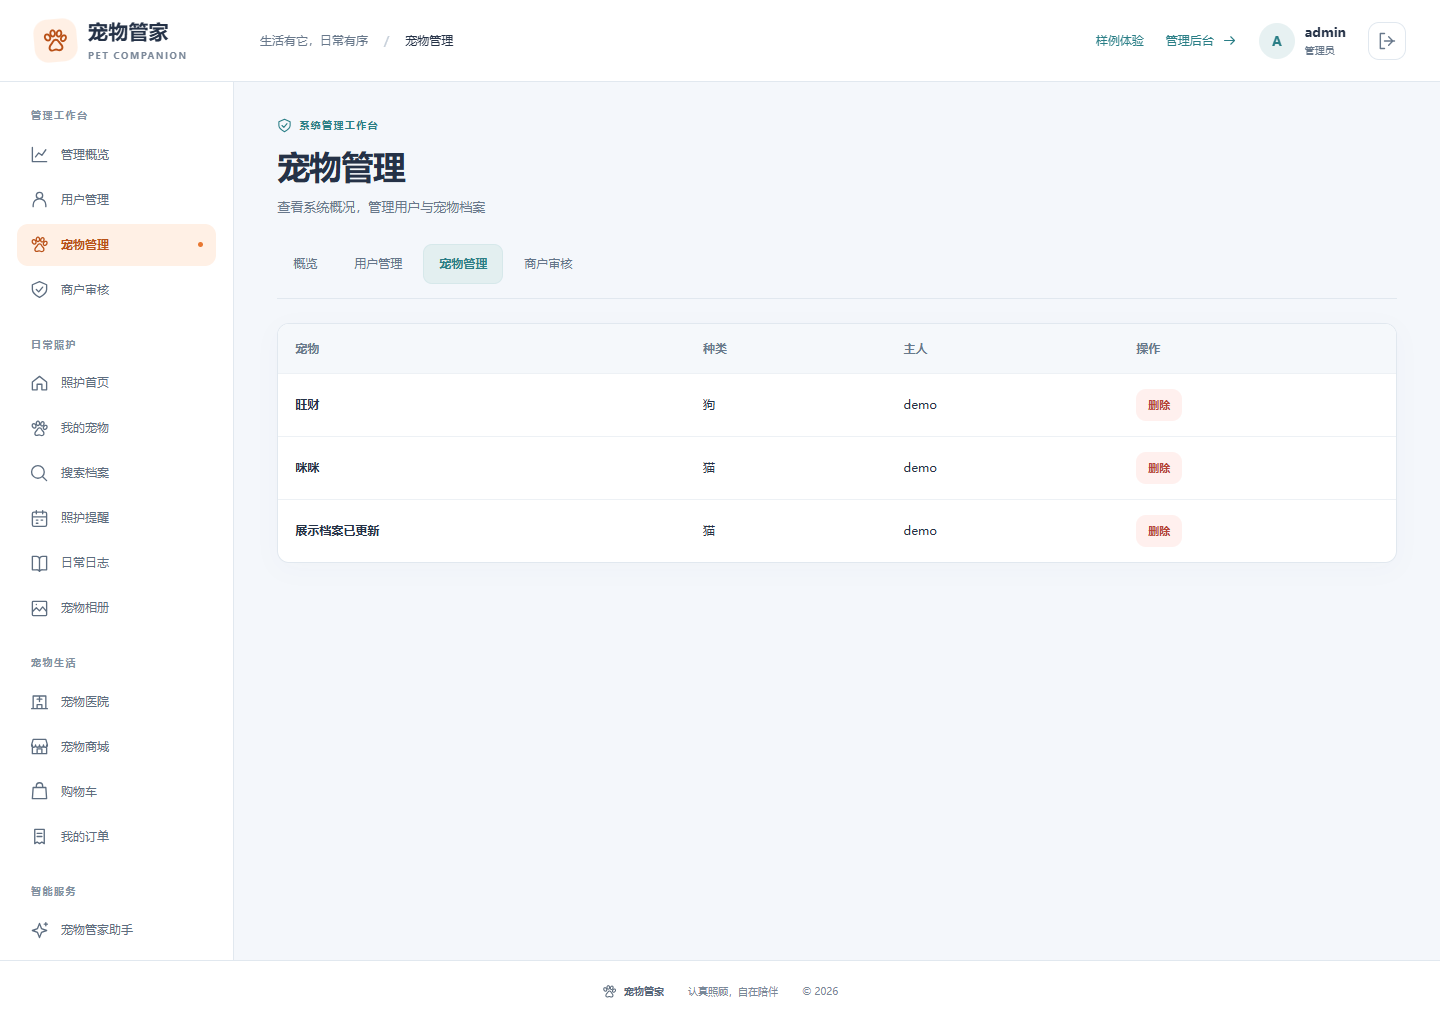
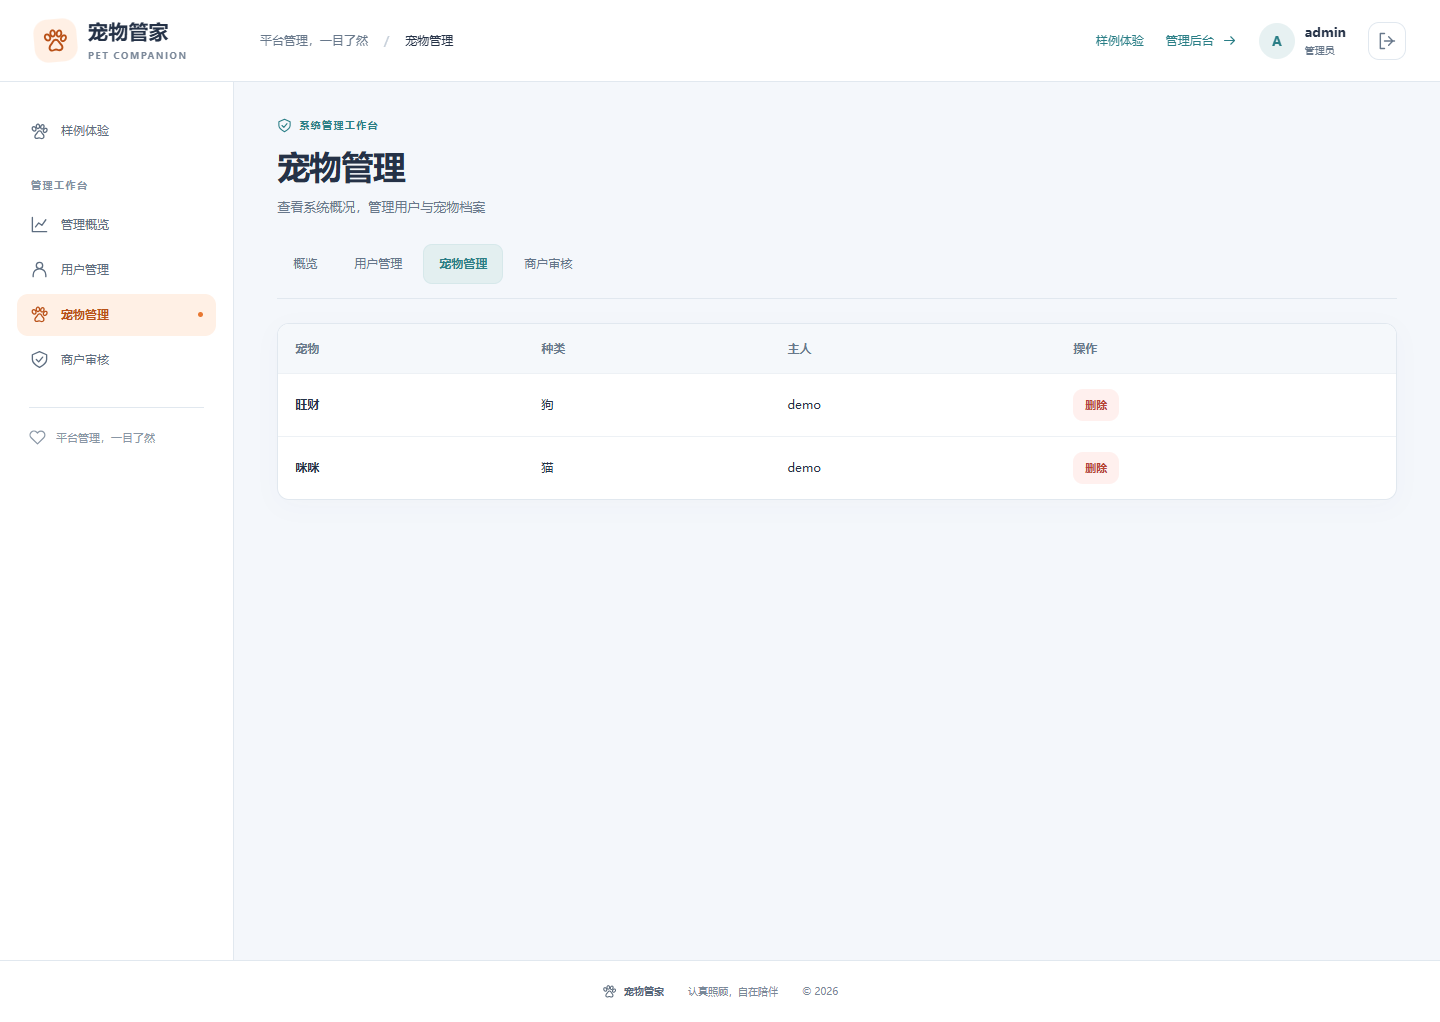
feat: separate owner merchant and admin workspaces

diff --git a/frontend/src/App.vue b/frontend/src/App.vue
@@ -4,12 +4,13 @@ import { useRouter, useRoute } from 'vue-router'
 import { api, errorMessage, imageUrl } from './api'
 import AppIcon from './components/AppIcon.vue'
 import AppPhoto from './components/AppPhoto.vue'
+import { currentUser as user, refreshUser } from './session'
+import { roleHome } from './roleAccess'
 const router = useRouter(), route = useRoute()
-const user = ref(null), menuOpen = ref(false), logoutError = ref('')
+const menuOpen = ref(false), logoutError = ref('')
 const demoEnabled = ref(false)
 onMounted(async () => { try { demoEnabled.value = (await api.get('/demo/status')).data.enabled === true } catch { demoEnabled.value = false } })
 const authPage = computed(() => ['/login', '/register'].includes(route.path))
-async function refreshUser() { try { user.value = (await api.get('/auth/profile')).data.user } catch { user.value = null } }
 async function logout() { try { await api.post('/auth/logout'); user.value = null; router.push('/login') } catch (error) { logoutError.value = errorMessage(error) } }
 provide('session', { user, refreshUser })
 function escapeMenu(event) { if (event.key === 'Escape') menuOpen.value = false }
@@ -21,6 +22,8 @@ const groups = [
   { title: '宠物生活', links: [['/community/hospitals','hospital','宠物医院'],['/shop/products','shop','宠物商城'],['/shop/cart','bag','购物车'],['/shop/orders','orders','我的订单']] },
   { title: '智能服务', links: [['/ai/assistant','sparkles','宠物管家助手'],['/ai/breed','scan','品种识别'],['/ai/emotion','smile','情绪分析'],['/ai/health','heart','健康报告'],['/ai/recommend','bag','商品推荐'],['/ai/consultation','chat','症状咨询']] }
 ]
+const visibleGroups = computed(() => user.value?.role === 'user' ? groups : [])
+const workspaceMessage = computed(() => ({user:'生活有它，日常有序',merchant:'店铺经营，清晰有序',admin:'平台管理，一目了然'}[user.value?.role] || '选择角色，开始体验'))
 const roleLinks = computed(() => user.value?.role === 'admin' ? [['/admin/dashboard','chart','管理概览'],['/admin/users','user','用户管理'],['/admin/pets','paw','宠物管理'],['/admin/merchants','shield','商户审核']] : user.value?.role === 'merchant' ? [['/merchant/products','shop','商品管理'],['/merchant/orders','orders','商户订单'],['/merchant/billing','book','租金账单']] : [])
 const currentTitle = computed(() => [...groups.flatMap(group => group.links), ...roleLinks.value, ['/profile','user','个人资料'], ['/demo','paw','样例体验']].find(link => link[0] === route.path)?.[2] || '宠物档案')
 const roleLabel = computed(() => ({ admin: '管理员', merchant: '商户', user: '宠物主人' }[user.value?.role] || '欢迎来访'))
@@ -29,8 +32,8 @@ const roleLabel = computed(() => ({ admin: '管理员', merchant: '商户', user
   <div class="site-shell" :class="{ 'auth-shell': authPage }">
     <a class="skip-link" href="#main-content">跳转到主要内容</a>
     <header class="topbar">
-      <RouterLink class="brand" to="/dashboard"><span class="brand-mark"><AppIcon name="paw" :size="27"/></span><span>宠物管家<small>PET COMPANION</small></span></RouterLink>
-      <div v-if="!authPage" class="top-context"><span>生活有它，日常有序</span><i>/</i><strong>{{ currentTitle }}</strong></div>
+      <RouterLink class="brand" :to="roleHome(user?.role)"><span class="brand-mark"><AppIcon name="paw" :size="27"/></span><span>宠物管家<small>PET COMPANION</small></span></RouterLink>
+      <div v-if="!authPage" class="top-context"><span>{{ workspaceMessage }}</span><i>/</i><strong>{{ currentTitle }}</strong></div>
       <nav class="top-actions" aria-label="账号导航">
         <RouterLink v-if="demoEnabled" class="role-link" to="/demo">样例体验</RouterLink>
         <RouterLink v-if="user?.role === 'merchant'" class="role-link" to="/merchant/products">商户中心 <AppIcon name="arrow" :size="15"/></RouterLink>
@@ -46,8 +49,8 @@ const roleLabel = computed(() => ({ admin: '管理员', merchant: '商户', user
       <aside v-if="!authPage" id="site-navigation" class="sidebar" :class="{ open: menuOpen }"><nav aria-label="主要导航">
         <div v-if="demoEnabled" class="nav-group"><RouterLink to="/demo"><AppIcon name="paw" :size="19"/><span>样例体验</span></RouterLink></div>
         <div v-if="roleLinks.length" class="nav-group"><div class="sidebar-caption">{{ user?.role === 'admin' ? '管理工作台' : '店铺工作台' }}</div><RouterLink v-for="[to, icon, label] in roleLinks" :key="to" :to="to"><AppIcon :name="icon" :size="19"/><span>{{ label }}</span><span class="active-dot"></span></RouterLink></div>
-        <div v-for="group in groups" :key="group.title" class="nav-group"><div class="sidebar-caption">{{ group.title }}</div><RouterLink v-for="[to, icon, label] in group.links" :key="to" :to="to"><AppIcon :name="icon" :size="19"/><span>{{ label }}</span><span class="active-dot"></span></RouterLink></div>
-      </nav><div class="sidebar-note"><AppIcon name="heart" :size="17"/><span>把每一份陪伴<br>记在日常里</span></div></aside>
+        <div v-for="group in visibleGroups" :key="group.title" class="nav-group"><div class="sidebar-caption">{{ group.title }}</div><RouterLink v-for="[to, icon, label] in group.links" :key="to" :to="to"><AppIcon :name="icon" :size="19"/><span>{{ label }}</span><span class="active-dot"></span></RouterLink></div>
+      </nav><div class="sidebar-note"><AppIcon name="heart" :size="17"/><span>{{ workspaceMessage }}</span></div></aside>
       <main id="main-content" class="main-content" tabindex="-1"><div v-if="logoutError" class="message error" role="alert">{{ logoutError }}</div><RouterView :key="$route.fullPath"/></main>
     </div>
     <footer><span class="footer-brand"><AppIcon name="paw" :size="15"/> 宠物管家</span><span>认真照顾，自在陪伴</span><span>© {{ new Date().getFullYear() }}</span></footer>

diff --git a/frontend/src/views/DemoView.vue b/frontend/src/views/DemoView.vue
@@ -1,5 +1,5 @@
 <script setup>
-import { inject, onMounted, ref } from 'vue'
+import { computed, inject, onMounted, ref } from 'vue'
 import { useRouter } from 'vue-router'
 import { api, unwrap, errorMessage } from '../api'
 import AppPhoto from '../components/AppPhoto.vue'
@@ -22,6 +22,7 @@ const scenes = [
   ['账单查询', 'merchant', '/merchant/billing', '查看一笔虚构月租金账单，不会发生实际扣款。'],
   ['平台管理', 'admin', '/admin/users', '查看演示账号并体验新增用户；商户审核可配合注册页新建申请。']
 ]
+const visibleScenes = computed(() => scenes.filter(scene => scene[1] === session.user.value?.role))
 onMounted(async () => { try { demo.value = (await api.get('/demo/status')).data } catch (e) { failure.value = errorMessage(e) } })
 async function enter(role, path) {
   if (busy.value || !demo.value?.enabled) return
@@ -45,8 +46,8 @@ async function enter(role, path) {
     <template v-if="demo?.enabled">
       <div class="demo-notice">本地演示环境 · 账号、商品、地址与订单均为样例。修改立即生效，重启 demo 后恢复初始数据。切换体验将切换当前登录账号。</div>
       <section class="demo-roles" aria-label="选择体验角色"><article v-for="role in roles" :key="role.role" class="demo-role"><AppPhoto :src="`/images/${role.image}.jpg`" :alt="role.label + '体验配图'" class="demo-photo"/><div><span class="eyebrow">{{ role.label }}</span><h2>{{ role.intro }}</h2><p>{{ role.steps }}</p><button class="btn" :disabled="busy" @click="enter(role.role, role.route)">{{ busy ? '正在进入…' : '体验' + role.label }}</button></div></article></section>
-      <section aria-labelledby="scenes-title"><h2 id="scenes-title">按场景试一试</h2><div class="demo-scenes"><article v-for="[title, role, path, note] in scenes" :key="title" class="card"><span class="tag">{{ roles.find(r => r.role === role).label }}</span><h3>{{ title }}</h3><p>{{ note }}</p><button class="btn secondary" :disabled="busy" @click="enter(role, path)">打开样例</button></article></div></section>
-      <section aria-labelledby="ai-samples-title" style="margin-top:32px"><h2 id="ai-samples-title">AI 样例体验</h2><p class="muted">进入后点击“填入样例”，可编辑输入，再提交查看实际结果。</p><div class="demo-scenes"><article v-for="(sample,key) in aiSamples" :key="key" class="card"><span class="tag">智能服务</span><h3>{{ sample.title }}</h3><p>{{ sample.description }}</p><button class="btn secondary" :disabled="busy" @click="enter('user', '/ai/' + key)">体验{{ {assistant:'资料问答',breed:'品种识别',emotion:'情绪分析',health:'健康报告',recommend:'商品推荐',consultation:'症状咨询'}[key] }}</button></article></div></section>
+      <section v-if="visibleScenes.length" aria-labelledby="scenes-title"><h2 id="scenes-title">按场景试一试</h2><div class="demo-scenes"><article v-for="[title, role, path, note] in visibleScenes" :key="title" class="card"><span class="tag">{{ roles.find(r => r.role === role).label }}</span><h3>{{ title }}</h3><p>{{ note }}</p><button class="btn secondary" :disabled="busy" @click="enter(role, path)">打开样例</button></article></div></section>
+      <section v-if="session.user.value?.role === 'user'" aria-labelledby="ai-samples-title" style="margin-top:32px"><h2 id="ai-samples-title">AI 样例体验</h2><p class="muted">进入后点击“填入样例”，可编辑输入，再提交查看实际结果。</p><div class="demo-scenes"><article v-for="(sample,key) in aiSamples" :key="key" class="card"><span class="tag">智能服务</span><h3>{{ sample.title }}</h3><p>{{ sample.description }}</p><button class="btn secondary" :disabled="busy" @click="enter('user', '/ai/' + key)">体验{{ {assistant:'资料问答',breed:'品种识别',emotion:'情绪分析',health:'健康报告',recommend:'商品推荐',consultation:'症状咨询'}[key] }}</button></article></div></section>
     </template>
   </div>
 </template>

diff --git a/frontend/tests/role-access.test.js b/frontend/tests/role-access.test.js
@@ -1,0 +1,22 @@
+import test from 'node:test'
+import assert from 'node:assert/strict'
+import { roleHome, canVisit } from '../src/roleAccess.js'
+
+test('each role has its own workspace and cannot enter another role workspace', () => {
+  const homes = { user: '/dashboard', merchant: '/merchant/products', admin: '/admin/dashboard' }
+  for (const [role, home] of Object.entries(homes)) {
+    assert.equal(roleHome(role), home)
+    assert.equal(canVisit(role, home), true)
+    for (const other of Object.keys(homes).filter(value => value !== role)) assert.equal(canVisit(role, homes[other]), false)
+    assert.equal(canVisit(role, '/profile'), true)
+    assert.equal(canVisit(role, '/demo'), true)
+  }
+  for (const path of ['/pets/1/weights', '/shop/orders', '/ai/assistant', '/community/hospitals']) {
+    assert.equal(canVisit('user', path), true)
+    assert.equal(canVisit('merchant', path), false)
+    assert.equal(canVisit('admin', path), false)
+  }
+  assert.equal(canVisit(null, '/dashboard'), false)
+  assert.equal(canVisit(null, '/demo'), true)
+  assert.equal(canVisit('unknown', '/dashboard'), false)
+})

diff --git a/frontend/src/main.js b/frontend/src/main.js
@@ -11,6 +11,8 @@ import AiView from './views/AiView.vue'
 import AdminView from './views/AdminView.vue'
 import SearchView from './views/SearchView.vue'
 import DemoView from './views/DemoView.vue'
+import { canVisit, publicPages, roleHome } from './roleAccess'
+import { refreshUser } from './session'
 import './style.css'
 
 const routes = [
@@ -33,4 +35,11 @@ const routes = [
   { path: '/merchant/:section?', component: AdminView, props: true }
 ]
 const router = createRouter({ history: createWebHistory(), routes })
+// Navigation separation complements the existing backend authorization checks.
+router.beforeEach(async to => {
+  if (publicPages.includes(to.path)) return true
+  const user = await refreshUser()
+  if (!user) return '/login'
+  return canVisit(user.role, to.path) ? true : roleHome(user.role)
+})
 createApp(App).use(router).mount('#app')

diff --git a/frontend/src/views/AuthView.vue b/frontend/src/views/AuthView.vue
@@ -4,6 +4,7 @@ import { useRouter } from 'vue-router'
 import { api, errorMessage, unwrap, imageUrl } from '../api'
 import AppIcon from '../components/AppIcon.vue'
 import AppPhoto from '../components/AppPhoto.vue'
+import { roleHome } from '../roleAccess'
 
 const props = defineProps({ mode: String })
 const router = useRouter()
@@ -40,7 +41,7 @@ async function submit() {
     } else {
       const result = unwrap(await api.post('/auth/login', { username: form.username, password: form.password }))
       await session.refreshUser()
-      router.push(result?.user?.role === 'merchant' ? '/merchant/products' : '/dashboard')
+      router.push(roleHome(result?.user?.role))
     }
   } catch (e) { failure.value = e?.response ? errorMessage(e) : e.message }
   finally { busy.value = false }

diff --git a/frontend/src/roleAccess.js b/frontend/src/roleAccess.js
@@ -1,0 +1,12 @@
+export const publicPages = ['/login', '/register', '/demo']
+export function roleHome(role) {
+  return { user: '/dashboard', merchant: '/merchant/products', admin: '/admin/dashboard' }[role] || '/login'
+}
+export function canVisit(role, path) {
+  if (publicPages.includes(path)) return true
+  if (!['user', 'merchant', 'admin'].includes(role)) return false
+  if (path === '/profile') return true
+  if (/^\/admin(?:\/|$)/.test(path)) return role === 'admin'
+  if (/^\/merchant(?:\/|$)/.test(path)) return role === 'merchant'
+  return role === 'user' && /^\/(dashboard|pets|search|reminders|photos|logs|shop|community|ai)(?:\/|$)/.test(path)
+}

diff --git a/frontend/src/session.js b/frontend/src/session.js
@@ -1,0 +1,7 @@
+import { ref } from 'vue'
+import { api } from './api'
+export const currentUser = ref(null)
+export async function refreshUser() {
+  try { currentUser.value = (await api.get('/auth/profile')).data.user; return currentUser.value }
+  catch { currentUser.value = null; return null }
+}

diff --git a/scripts/update-feature-report.py b/scripts/update-feature-report.py
@@ -44,7 +44,7 @@ for i, part in enumerate(parts):
         block += '''
 #### 样例体验入口
 
-入口：`/demo`，也可以点击页面顶部“样例体验”。选择宠物主人、商户或管理员，会通过普通登录接口切换对应演示账号。九个业务场景和六个 AI 样例入口直达可操作页面。
+入口：`/demo`，也可以点击页面顶部“样例体验”。选择宠物主人、商户或管理员，会通过普通登录接口切换对应演示账号。业务场景只展示当前角色相关的功能，宠物主人另外显示六个 AI 样例入口；三个角色切换按钮保留，方便分别体验。
 
 demo 环境预置两只宠物、三件商品、六条体重、两条日志、一笔待付款订单和一笔虚构租金账单，并保留原有健康记录、提醒与演示医院。修改立即生效，重启演示服务后恢复初始数据，不连接真实 MySQL。
 

diff --git a/docs/宠物管家系统个人技能实训综合报告.md b/docs/宠物管家系统个人技能实训综合报告.md
@@ -61,6 +61,7 @@ public User create(AdminUserRequest request) {
 
 
 
+
 <!-- demos:start -->
 ### 功能展示
 
@@ -123,9 +124,12 @@ const api = axios.create({
 
 界面采用清爽宠物生活风：浅色背景、暖橙主操作和蓝灰文字，统一导航、表单、卡片与状态提示。首页和登录页加入宠物照片，商城优先展示商品上传图；原图缺失或加载失败时显示分类示意图并明确标注，避免把素材照片误认为实际商品。
 
+功能入口按角色分离：宠物主人查看日常照护、医院商城与 AI 服务；商户仅查看商品、商户订单与租金账单；管理员仅查看统计、用户、宠物与商户审核。个人资料、退出和演示角色切换为公共入口。正常登录和点击品牌标识均回到自己的工作台，手动输入其他角色的业务地址也会重定向回自己的首页。前端导航分离用于减少混乱，后端原有权限与数据归属校验继续负责接口安全。
+
 手机端将侧边栏收起为菜单，卡片改为单列，表格在容器内部滚动。验证覆盖 360px 与 390px 视口，检查横向溢出、菜单展开、Escape 关闭及跳转后收起。
 
 ![图5 手机端登录界面](evidence/ui-refresh/login-mobile.png)
+
 
 
 
@@ -239,7 +243,7 @@ const api = axios.create({
 
 #### 样例体验入口
 
-入口：`/demo`，也可以点击页面顶部“样例体验”。选择宠物主人、商户或管理员，会通过普通登录接口切换对应演示账号。九个业务场景和六个 AI 样例入口直达可操作页面。
+入口：`/demo`，也可以点击页面顶部“样例体验”。选择宠物主人、商户或管理员，会通过普通登录接口切换对应演示账号。业务场景只展示当前角色相关的功能，宠物主人另外显示六个 AI 样例入口；三个角色切换按钮保留，方便分别体验。
 
 demo 环境预置两只宠物、三件商品、六条体重、两条日志、一笔待付款订单和一笔虚构租金账单，并保留原有健康记录、提醒与演示医院。修改立即生效，重启演示服务后恢复初始数据，不连接真实 MySQL。
 
@@ -326,6 +330,7 @@ public class AdminUserController {
 
 
 
+
 <!-- demos:start -->
 ### 功能展示
 
@@ -406,6 +411,7 @@ var result = assistantService.ask("如何设置疫苗提醒？");
 
 
 
+
 <!-- demos:start -->
 ### 功能展示
 
@@ -474,7 +480,7 @@ SDK 每次请求设置 20 秒超时且不自动重试。向量服务返回的 in
 | 验证项目 | 实际结果 | 覆盖范围 |
 | --- | --- | --- |
 | Maven verify | 36 项通过，0 失败、0 错误 | 用户 CRUD、安全、业务边界、库存并发、RAG 和 SDK 协议 |
-| 前端测试及生产构建 | 6 项通过，构建成功 | CSRF、连续写入、宠物分页、错误提示、图片地址 |
+| 前端测试及生产构建 | 7 项通过，构建成功；角色界面 16 项实测通过 | CSRF、角色首页与导航、跨角色跳转、手机菜单及公共入口 |
 | 实际 HTTP 接口 | 40 项通过 | 登录、权限、用户及宠物 CRUD、照护、订单、退出和输入校验 |
 | 新版浏览器页面检查 | 67 项通过，无未捕获脚本错误 | 三种角色页面、助手来源、图片加载、桌面与手机布局、移动菜单 |
 | 图片替代与恢复 | 4 项通过 | 原图失败后的示意标签、替代文字、图片恢复和购物车缩略图 |

diff --git a/docs/evidence/features/README.md b/docs/evidence/features/README.md
@@ -13,3 +13,5 @@
 样例专项检查通过 10 项，见 `../demo/verification.json`，复现脚本为 `scripts/verify-demo.cjs`。该脚本使用 8080 的可丢弃 demo 环境并会编辑样例日志。
 
 AI 样例扩展：六项真实提交、手机布局和五类交互检查均通过。包括六个体验入口、填入不自动提交、手动替换照片、加载失败重试以及非 demo 隐藏入口。结果见 `../ai-samples/verification.json`，复现使用 `scripts/verify-ai-samples.cjs`，会在 demo 中产生真实分析历史。实验五的六张图已替换为本轮样例结果。
+
+角色界面拆分：普通用户、商户、管理员的正常登录首页、独立导航、跨角色地址重定向、公共资料入口、样例筛选与手机菜单共 16 项检查通过；前端单测共 7 项通过。见 `../roles/verification.json`，复现脚本 `scripts/verify-role-workspaces.cjs`。本轮已重拍管理员、商户、样例中心及 AI 页面截图，报告引用随之更新。

diff --git a/README.md b/README.md
@@ -78,3 +78,7 @@ npm.cmd run build
 报告按实验一至五分章，每章包含步骤、代码、验证、总结反思和 AI 使用记录。远程 PR、云端 CI、真实模型服务及人工答辩只有实际执行后才能记录为完成。
 
 商户租金账单提供只读查询。原项目支付模板未连接真实支付服务，本次也未接入支付网关，不把模拟按钮标为已完成的线上缴费。
+
+## 三种角色的界面范围
+
+宠物主人使用日常照护、医院、商城与 AI；商户使用商品、订单和租金账单；管理员使用平台统计、用户、宠物和商户审核。登录后及点击品牌标识均进入自己的工作台，其他角色页面会跳回当前角色首页。个人资料和退出通用；demo 中保留角色切换，样例场景按当前角色过滤。前端路由分离不替代后端权限校验。
